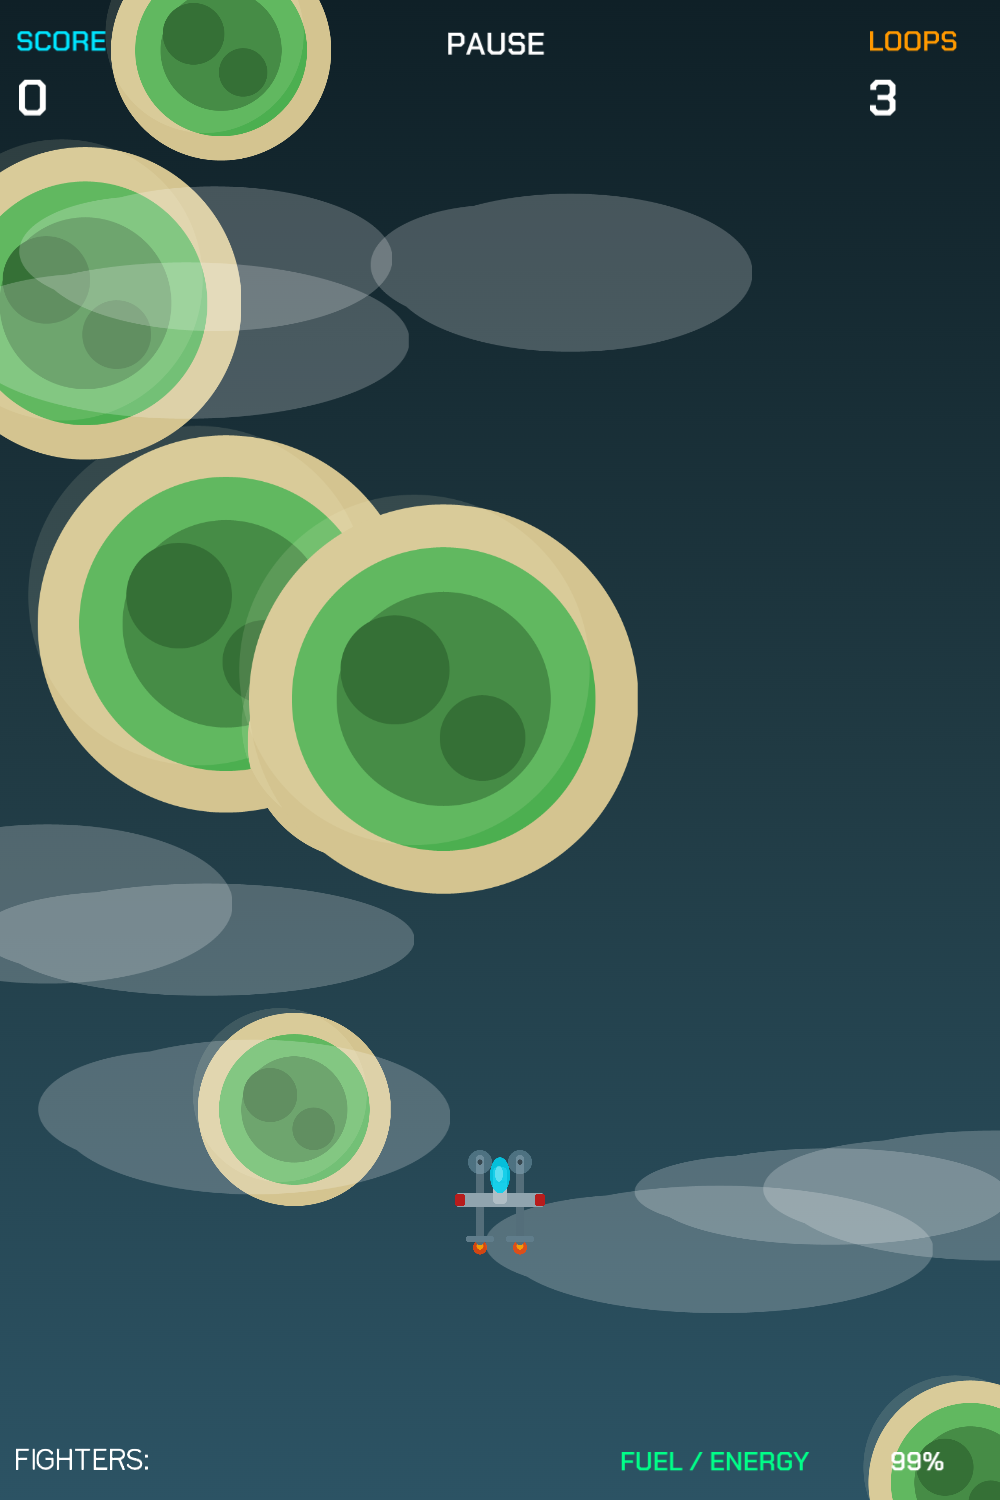
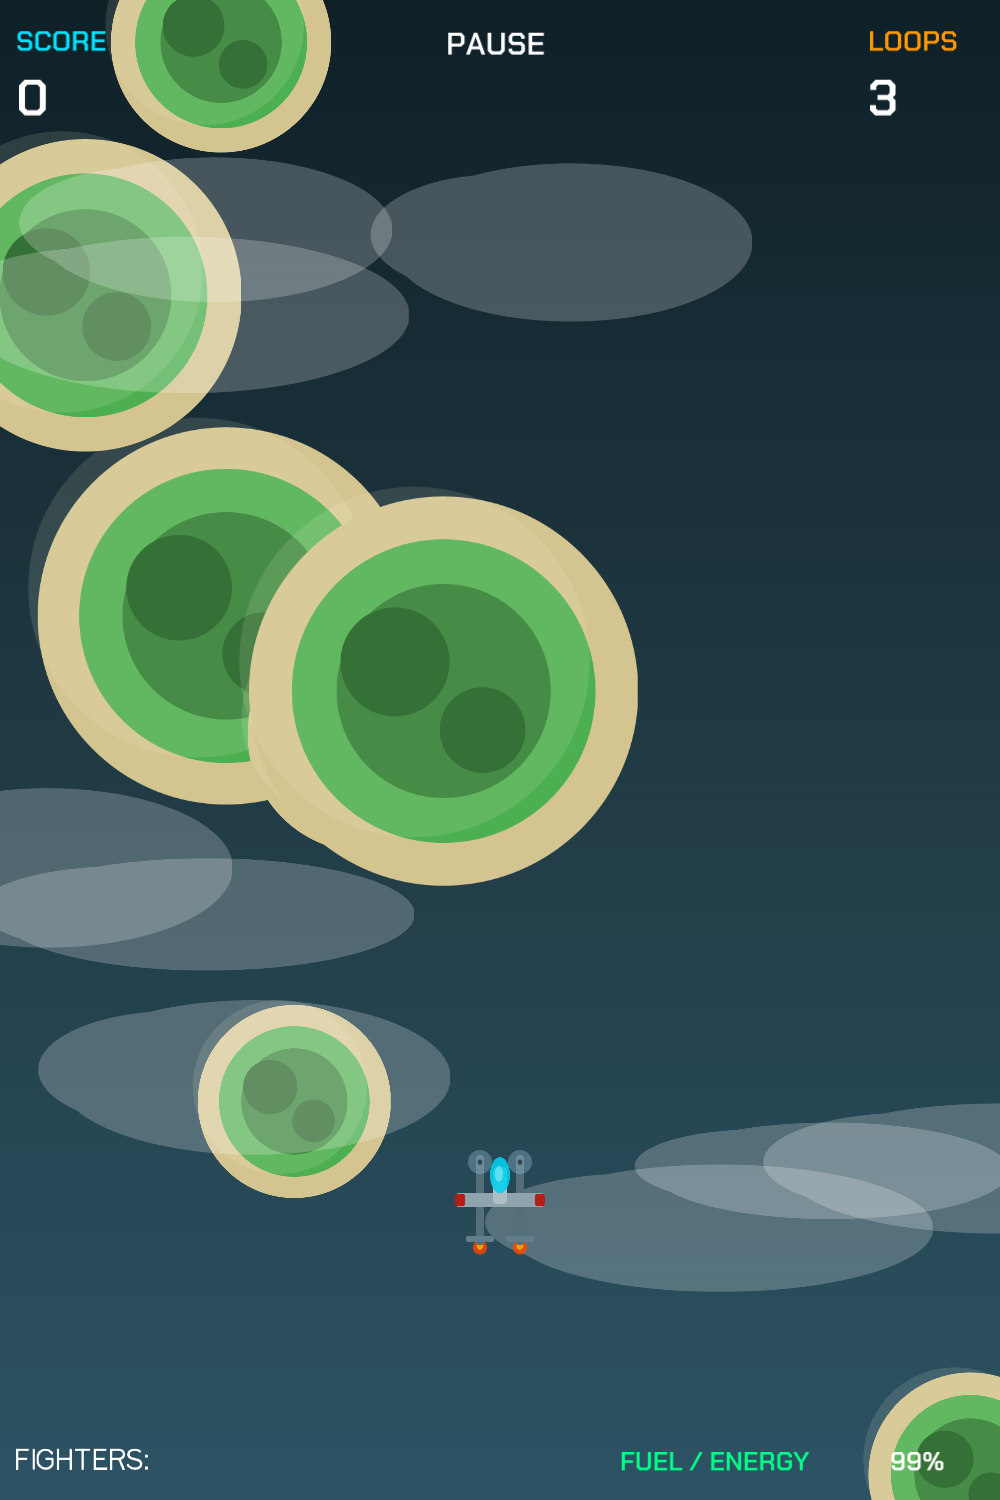
controller-prefs: fix row-label caret alignment; slider as single focus stop
Apply measured text.height centering to FIRE/ROLL/PAUSE row labels so
the caret (44px tall at rectY+(80-44)/2) and text share the same visual
center — same formula used for all other buttons.

Make the deadzone slider a single FocusController item (focus 4): [-]
holds the focus entry with leftAct=dec/rightAct=inc; [+] retains its
click handler but is no longer a separate focus stop. This prevents the
caret from jumping to [+] on Right arrow or Down from [-], and makes
Down from the slider go directly to BACK (focus 5).

diff --git a/composeApp/src/commonMain/kotlin/com/vitriolix/airwar2142/scenes/ControllerPrefsScene.kt b/composeApp/src/commonMain/kotlin/com/vitriolix/airwar2142/scenes/ControllerPrefsScene.kt
@@ -60,8 +60,9 @@ class ControllerPrefsScene(
             val cy = 290.0 + idx * 110.0
             val listening = listeningRow == idx
             if (listening) solidRect(800.0, 80.0, RGBA(0, 229, 255, 40)).position(100.0, cy)
-            text(label, 36.0, if (listening) Colors["#00E5FF"] else Colors.WHITE, font = Fonts.content)
-                .position(116.0, cy + 18.0)
+            val rowLabel = text(label, 36.0, if (listening) Colors["#00E5FF"] else Colors.WHITE, font = Fonts.content)
+            rowLabel.x = 116.0
+            rowLabel.y = cy + (80.0 - rowLabel.height) / 2.0
             // Chip: right-anchored, right edge 32px in from row right (x=868)
             val chipW = if (listening) 340.0 else 120.0
             val chipX = 868.0 - chipW
@@ -111,7 +112,7 @@ class ControllerPrefsScene(
         }
         val incAct: suspend () -> Unit = {
             val d = (deadzone + 0.05f).coerceAtMost(0.50f)
-            nav.changeTo { ControllerPrefsScene(engine, nav, fromGame, fireBinding, rollBinding, pauseBinding, invertY, d, -1, 5) }
+            nav.changeTo { ControllerPrefsScene(engine, nav, fromGame, fireBinding, rollBinding, pauseBinding, invertY, d, -1, 4) }
         }
 
         solidRect(80.0, 60.0, Colors["#FF9900"]).position(100.0, 840.0)
@@ -132,9 +133,8 @@ class ControllerPrefsScene(
         incText.y = 840.0 + (60.0 - incText.height) / 2.0
         solidRect(80.0, 60.0, RGBA(0, 0, 0, 1)).position(820.0, 840.0)
             .onClickSuspend(views.coroutineContext) { incAct() }
-        fc.add(778.0, 840.0 + (60.0 - 44.0) / 2.0, incAct, leftAct = decAct, rightAct = incAct)
 
-        // BACK button — focus 6
+        // BACK button — focus 5
         val backY = CANVAS_HEIGHT - 200.0
         val backAct: suspend () -> Unit = { nav.changeTo { SettingsScene(engine, nav, fromGame, 7) } }
         solidRect(380.0, 80.0, RGBA(255, 255, 255, 20)).position(100.0, backY)